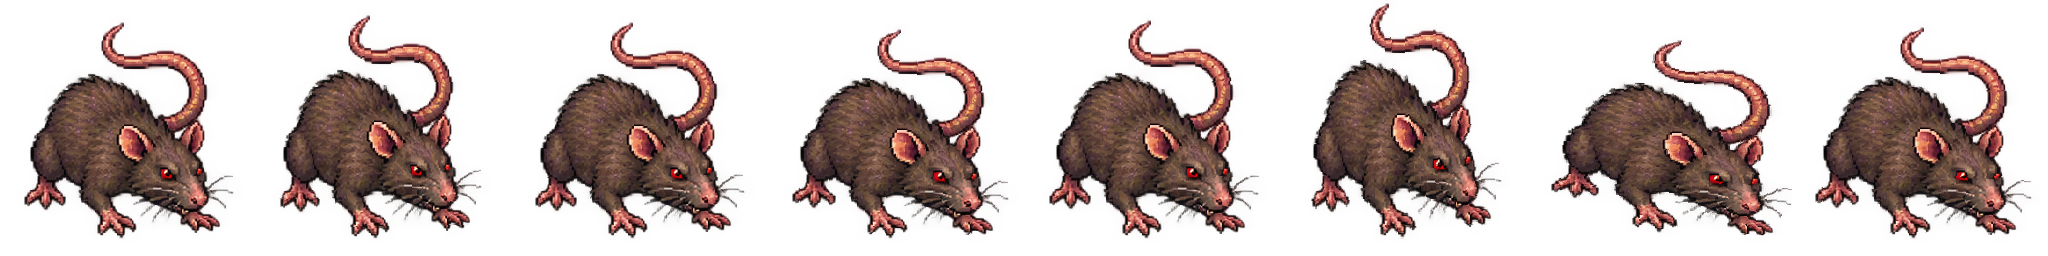
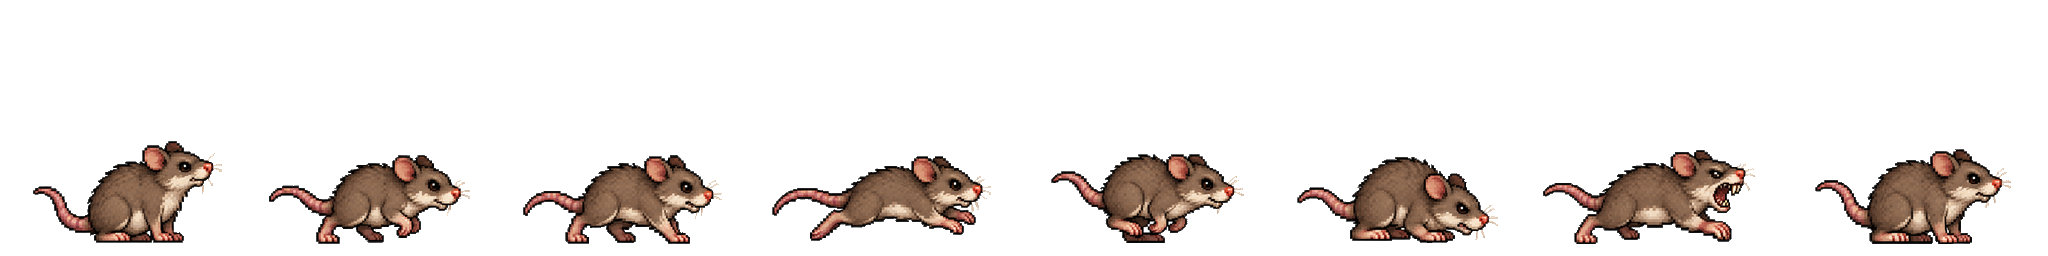
.

diff --git a/public/game.js b/public/game.js
@@ -36,7 +36,7 @@
     { dx: -8, dy: -8, kind: 'forge' }, { dx: 5, dy: -8, kind: 'potion' },
     { dx: -8, dy: 5, kind: 'guild' }, { dx: 5, dy: 5, kind: 'travel' }
   ];
-  const townLamps = [[-3, -3], [4, -3], [-3, 4], [4, 4], [-1, -9], [2, -9], [-1, 9], [2, 9]];
+  const townLamps = [[-4, -3], [5, -3], [-4, 3], [5, 3], [-1, -9], [2, -9], [-1, 9], [2, 9]];
 
   // ======================================================== ABERTURA
   const show = (id, on) => $(id).style.display = on ? (id === 'game' || id === 'title' ? 'block' : 'flex') : 'none';
@@ -343,6 +343,16 @@
 
   // ======================================================== MAPA
   const tileAt = (x, y) => { x -= RX; return (x < 0 || y < 0 || x >= MW || y >= MH) ? T.WATER : tiles[y * MW + x]; };
+  // Chão desenhado: sob as lojas e a fonte vai calçamento (os prédios/fonte pintados cobrem por cima);
+  // antes aparecia o "bloco" de parede/água atrás das fachadas.
+  const groundAt = (x, y) => {
+    const t = tileAt(x, y), dx = x - CX, dy = y - CY;
+    if (Math.abs(dx) < 10 && Math.abs(dy) < 10) {
+      if (t === T.WATER && dx >= 0 && dx <= 1 && dy >= 0 && dy <= 1) return T.FLOOR;
+      if (t === T.WALL) return T.FLOOR;
+    }
+    return t;
+  };
   const inCave = (x, y) => REG.biome === 'green' && x > CX + 28 && y > CY + 28;
   // Carrega SÓ a região onde o jogador está (as outras não pesam no celular)
   function loadRegion(m) {
@@ -405,8 +415,8 @@
   // Resolução adaptativa: começa nítida; se o aparelho não aguenta ~50 fps, reduz um pouco a
   // resolução interna do mapa (a tela continua do mesmo tamanho). Em aparelho bom fica no máximo.
   const DPR_MAX = Math.min(window.devicePixelRatio || 1, 2);
-  const QLEVELS = [...new Set([DPR_MAX, DPR_MAX * 0.85, DPR_MAX * 0.7, 1.25, 1, 0.85].map(v => Math.round(v * 100) / 100).filter(v => v <= DPR_MAX))].sort((a, b) => b - a);
-  let qIdx = 0; try { const sv = +LS.get('piper_q'); if (sv > 0 && sv < QLEVELS.length) qIdx = sv; } catch (e) { }
+  const QLEVELS = [...new Set([DPR_MAX, DPR_MAX * 0.85, DPR_MAX * 0.7, 1.25, 1, ...(DPR_MAX >= 1.5 ? [] : [0.85])].map(v => Math.round(v * 100) / 100).filter(v => v <= DPR_MAX))].sort((a, b) => b - a);
+  let qIdx = 0; try { const sv = +LS.get('piper_q2'); if (sv > 0 && sv < QLEVELS.length) qIdx = sv; } catch (e) { }
   const perfMon = { n: 0, sum: 0, last: 0, winStart: 0, slowWin: 0, goodSince: 0, coolUntil: 0, failedUp: 0 };
   function perfFrame(now) {
     const dt = now - perfMon.last; perfMon.last = now;
@@ -420,7 +430,7 @@
     if (avg > 21 && qIdx < QLEVELS.length - 1) {          // abaixo de ~48 fps: menos pixels
       perfMon.slowWin++;
       if (perfMon.slowWin >= 2 || avg > 45) {              // muito lento: desce 2 degraus de uma vez
-        qIdx = Math.min(QLEVELS.length - 1, qIdx + (avg > 45 ? 2 : 1)); perfMon.slowWin = 0; perfMon.coolUntil = now + 1500; perfMon.goodSince = 0; LS.set('piper_q', qIdx); resize();
+        qIdx = Math.min(QLEVELS.length - 1, qIdx + (avg > 45 ? 2 : 1)); perfMon.slowWin = 0; perfMon.coolUntil = now + 1500; perfMon.goodSince = 0; LS.set('piper_q2', qIdx); resize();
       }
     } else {
       perfMon.slowWin = 0;
@@ -428,7 +438,7 @@
       else perfMon.goodSince = 0;
       // fluido por 25 s: tenta voltar um degrau de nitidez (se piorar, desce de novo e espera mais)
       if (qIdx > 0 && perfMon.goodSince && now - perfMon.goodSince > 25000 && now > perfMon.failedUp) {
-        qIdx--; perfMon.goodSince = 0; perfMon.coolUntil = now + 2500; perfMon.failedUp = now + 120000; LS.set('piper_q', qIdx); resize();
+        qIdx--; perfMon.goodSince = 0; perfMon.coolUntil = now + 2500; perfMon.failedUp = now + 120000; LS.set('piper_q2', qIdx); resize();
       }
     }
   }
@@ -472,7 +482,7 @@
     ctx.setTransform(K, 0, 0, K, 0, 0); ctx.imageSmoothingEnabled = false;
     const x0 = Math.floor(camX) - 1, y0 = Math.floor(camY) - 1, x1 = x0 + Math.ceil(LWW / TS) + 2, y1 = y0 + Math.ceil(LHH / TS) + 3;
     const wf = Math.floor(now / 350) % 7;
-    SPR.drawGround(ctx, x0, y0, x1, y1, ox, oy, now, tileAt, K);
+    SPR.drawGround(ctx, x0, y0, x1, y1, ox, oy, now, groundAt, K);
     for (const pt of D.portalsOf(REG.id)) { const wx = RX + pt.x; if (wx >= x0 - 2 && wx <= x1 + 2 && pt.y >= y0 - 3 && pt.y <= y1 + 3) drawPortal(pt, wx, now, ox, oy); }
     for (const f of fxs) {
       const age = now - f.t0, sx = f.x * TS + ox, sy = f.y * TS + oy;
@@ -496,9 +506,6 @@
       }
       if (y === CY + 1) {
         const fountain = SPR.townFountain(), fh = Math.round(fountain.height * 64 / fountain.width);
-        // A fonte nova tem cantos vazados: piso de pedra por baixo, no lugar da água dos 2x2 tiles.
-        if (fountain.naturalWidth) for (let dy = 0; dy < 2; dy++) for (let dx = 0; dx < 2; dx++)
-          ctx.drawImage(SPR.tile(T.FLOOR, (dx + dy * 3) % 4, 0), (CX + dx) * TS + ox, (CY + dy) * TS + oy, TS, TS);
         ctx.drawImage(fountain, CX * TS + ox, CY * TS + oy + 64 - fh, 64, fh);
       }
       // Lampiões em volta da praça (só decoração).
@@ -538,7 +545,7 @@
     ctx.textAlign = 'center';
     for (const e of ents.values()) {
       const p = rpos(e, now), sx = p.x * TS + ox + 16, isC = e.kind === 'p' || (typeof e.look === 'string' && e.look[0] === 'c');
-      const top = isC ? (mobileMode ? 34 : 24) : (e.look === 'dragon' || e.look === 'troll' || e.look === 'bear' ? (mobileMode ? 22 : 14) : (mobileMode ? 12 : 4));
+      const top = isC ? (mobileMode ? 22 : 15) : (e.look === 'dragon' || e.look === 'troll' || e.look === 'bear' ? (mobileMode ? 22 : 14) : (mobileMode ? 12 : 4));
       const sy = p.y * TS + oy - top;
       const pct = e.hp / 100, hc = pct > 0.6 ? '#3fd35a' : pct > 0.3 ? '#f2c14e' : '#ef4444';
       const nc = e.kind === 'n' ? '#9fd8ff' : e.kind === 'p' ? ((e.flags & 1) ? '#ff6b6b' : e.id !== myId && isFriend(e.name) ? '#5cf08a' : '#ffffff') : hc;
@@ -642,6 +649,7 @@
       ctx.save(); ctx.translate(dir[0] * attackStep, dir[1] * attackStep * .45);
       ctx.imageSmoothingEnabled = false;
       if (hurt) ctx.globalAlpha = 0.6;
+      ctx.imageSmoothingEnabled = true; ctx.imageSmoothingQuality = 'high';
       // As folhas novas têm os pés na linha 185/192. A linha do solo é 31,
       // igual aos monstros: antes em 29, o herói parecia levitar.
       const squash = 0;   // sem esticar/achatar: o personagem tem sempre o mesmo tamanho
@@ -651,7 +659,7 @@
       ctx.restore(); ctx.imageSmoothingEnabled = false;
       return;
     }
-    const enemySprite = e.kind === 'm' && ENEMIES.sprite(e.look, frame, e.dir === 1);
+    const enemySprite = e.kind === 'm' && ENEMIES.sprite(e.look, frame, !!e.faceLeft);
     const img = enemySprite || SPR.entity(e.kind, e.look, e.dir, frame, e.faceLeft);
     const elite = e.look === 'bear' || e.look === 'troll' || e.look === 'dragon';
     const scale = mobileMode ? 1.15 : 1;
@@ -664,7 +672,7 @@
     ctx.fillStyle = 'rgba(0,0,0,.28)'; ctx.beginPath(); ctx.ellipse(sx + 16, sy + 29, iw > 40 ? 16 : 10, 4, 0, 0, 7); ctx.fill();
     ctx.save(); ctx.translate(dir[0] * attackStep, dir[1] * attackStep * .45);
     if ((e.hitUntil || 0) > now) ctx.globalAlpha = 0.6;
-    ctx.imageSmoothingEnabled = false;
+    ctx.imageSmoothingEnabled = !!enemySprite; ctx.imageSmoothingQuality = 'high';
     ctx.drawImage(img, Math.round((sx + (TS - iw) / 2) * K) / K, Math.round((sy + TS - ih - 1 + idleBob) * K) / K, iw, ih);
     ctx.restore();
     ctx.imageSmoothingEnabled = false;

diff --git a/public/sprites.js b/public/sprites.js
@@ -66,14 +66,32 @@ const SPR = (function () {
         case T.SAND: speckle(g, '#d8c07c', ['#c8ae68', '#e6d297', '#cdb571', '#f0dca1'], 42, s); for (let i = 0; i < 3; i++) { const x = hash(i, s, 3) * 15 | 0, y = hash(i, s, 4) * 15 | 0; r(x, y, 3, .5, '#b89b5d'); } break;
         case T.PATH: speckle(g, '#9b7b4f', ['#8a6b43', '#ac8c5d', '#927349', '#b09264'], 42, s); for (let i = 0; i < 5; i++) { const x = hash(i, s, 3) * 15 | 0, y = hash(i, s, 4) * 15 | 0; r(x, y, 1, 1, '#6f665b'); if (i % 2) r(x + 1, y + 1, 1, .5, '#c5a87a'); } break;
         case T.FLOOR:
-          g.fillStyle = '#8f877a'; g.fillRect(0, 0, 32, 32);
-          r(0, 0, 16, 0.5, '#6e675c'); r(0, 8, 16, 0.5, '#6e675c'); r(v % 2 ? 4 : 10, 0, 0.5, 8, '#6e675c'); r(v % 2 ? 12 : 6, 8, 0.5, 8, '#6e675c');
-          for (let i = 0; i < 10; i++) r(hash(i, s, 3) * 16 | 0, hash(i, s, 4) * 16 | 0, 1, 1, i % 2 ? '#a39b8e' : '#837b6f');
+          // Praça da cidade: blocos de pedra irregulares, com juntas escuras
+          // e desgaste leve. As bordas continuam alinhadas ao tile.
+          g.fillStyle = '#635d56'; g.fillRect(0, 0, 32, 32);
+          for (let row = 0; row < 4; row++) {
+            const off = ((row + v) & 1) ? -2 : 0;
+            for (let col = -1; col < 4; col++) {
+              const id = row * 7 + col + s, x = off + col * 5, y = row * 4;
+              const tone = ['#9c958a', '#928a7f', '#a69f94', '#877f74'][(hash(id, s, 33) * 4) | 0];
+              r(x + .35, y + .35, 4.3, 3.25, tone);
+              r(x + .8, y + .7, 2.2, .45, shade(tone, 1.12));
+              if (hash(id, s, 34) > .82) r(x + 2, y + 2, 1.1, .45, '#6e675f');
+            }
+          }
+          r(0, 0, 16, .45, '#c1b9ab'); r(0, 15.55, 16, .45, '#514c46');
           break;
         case T.WALL:
-          g.fillStyle = '#5a544d'; g.fillRect(0, 0, 32, 32);
-          for (let row = 0; row < 4; row++) for (let col = -1; col < 3; col++) { const x = col * 6 + (row % 2 ? 3 : 0); r(x + 0.5, row * 4 + 0.5, 5, 3, row === 0 ? '#9a938a' : '#7b746b'); r(x + 0.5, row * 4 + 0.5, 5, 0.5, '#a8a197'); }
-          r(0, 14, 16, 2, '#3c3833');
+          // Muralha com coroamento claro, pedras maiores e base sombreada.
+          g.fillStyle = '#3f3b37'; g.fillRect(0, 0, 32, 32);
+          r(0, 0, 16, 1.3, '#b5ada1'); r(0, 1.3, 16, .7, '#716a63');
+          for (let row = 0; row < 4; row++) for (let col = -1; col < 3; col++) {
+            const id = row * 9 + col + s, x = col * 6 + ((row + v) % 2 ? 3 : 0), y = row * 3.55 + 1.4;
+            const tone = ['#827b73', '#756e67', '#908980', '#69635e'][(hash(id, s, 51) * 4) | 0];
+            r(x + .35, y + .45, 5.1, 2.75, tone); r(x + .7, y + .75, 3.3, .4, shade(tone, 1.2));
+            if (hash(id, s, 52) > .86) r(x + 2.2, y + 1.6, .5, 1.1, '#514c47');
+          }
+          r(0, 13.8, 16, 2.2, '#34312e'); r(0, 13.8, 16, .45, '#a0978b');
           break;
         case T.CAVE: speckle(g, '#3f3228', ['#33281f', '#4b3c30', '#382c23'], 34, s); break;
         case T.CAVEWALL:
@@ -359,9 +377,41 @@ const SPR = (function () {
   // leitura clássica de RPG mobile sem transformar o mundo em baixa resolução.
   const GFILES = ['water-seamless.jpg', 'grass-pixel.png'];
   GFILES.forEach(n => { const im = new Image(); im.onload = () => { GIMG[n] = im; chunks.clear(); }; im.src = 'assets/world/' + n; });
+  // Texturas contínuas opcionais (calçamento da praça, terra e areia): ancoradas no mundo, sem emenda entre tiles.
+  const GOPT = { [T.FLOOR]: 'plaza.jpg', [T.PATH]: 'dirt.jpg', [T.SAND]: 'sand.jpg' };
+  Object.values(GOPT).forEach(n => { const im = new Image(); im.onload = () => { GIMG[n] = im; chunks.clear(); }; im.src = 'assets/world/ground/' + n + '?v=gpt1'; });
   const gReady = () => GFILES.every(n => GIMG[n]) && typeof DOMMatrix !== 'undefined';
   function pats(c) {
-    return { water: c.createPattern(GIMG['water-seamless.jpg'], 'repeat'), grass: c.createPattern(GIMG['grass-pixel.png'], 'repeat') };
+    const P = { water: c.createPattern(GIMG['water-seamless.jpg'], 'repeat'), grass: c.createPattern(GIMG['grass-pixel.png'], 'repeat') };
+    for (const t in GOPT) if (GIMG[GOPT[t]]) P[t] = c.createPattern(GIMG[GOPT[t]], 'repeat');
+    return P;
+  }
+  // escala de cada textura de 512 px (0,5 = repete a cada 8 tiles; o calçamento usa pedras maiores)
+  const GSCALE = { [T.FLOOR]: 0.2, [T.PATH]: 0.5, [T.SAND]: 0.5 };
+  const grassy = q => q === T.GRASS || q === T.FLOWER || q === T.TREE;
+  // Borda orgânica de grama por cima de terra/areia: tira o aspecto de "quadradinho" entre terrenos.
+  function grassFringe(c, x, y, dx, dy, at, P, ox, oy) {
+    const n = grassy(at(x, y - 1)), s = grassy(at(x, y + 1)), w = grassy(at(x - 1, y)), e = grassy(at(x + 1, y));
+    const nw = grassy(at(x - 1, y - 1)), ne = grassy(at(x + 1, y - 1)), sw = grassy(at(x - 1, y + 1)), se = grassy(at(x + 1, y + 1));
+    if (!(n || s || w || e || nw || ne || sw || se)) return;
+    const wx = x * 32, wy = y * 32, d = u => 5.5 + 2.6 * Math.sin(u * 0.17) + 1.6 * Math.sin(u * 0.43 + 1.3) + 0.8 * Math.sin(u * 1.1 + 0.4);
+    const path = new Path2D();
+    const edge = (side) => {
+      path.moveTo(side === 3 ? dx + 32 : dx, side === 1 ? dy + 32 : dy);
+      for (let i = 0; i <= 32; i += 1) {
+        const k = d((side < 2 ? wx : wy) + i);
+        if (side === 0) path.lineTo(dx + i, dy + k); else if (side === 1) path.lineTo(dx + i, dy + 32 - k);
+        else if (side === 2) path.lineTo(dx + k, dy + i); else path.lineTo(dx + 32 - k, dy + i);
+      }
+      if (side === 0) path.lineTo(dx + 32, dy); else if (side === 1) path.lineTo(dx + 32, dy + 32);
+      else if (side === 2) path.lineTo(dx, dy + 32); else path.lineTo(dx + 32, dy + 32);
+      path.closePath();
+    };
+    if (n) edge(0); if (s) edge(1); if (w) edge(2); if (e) edge(3);
+    const corner = (cx, cy) => { path.moveTo(cx, cy); path.arc(cx, cy, 6.5 + 2 * Math.sin(wx * 0.3 + wy * 0.7), 0, Math.PI * 2); };
+    if (nw && !n && !w) corner(dx, dy); if (ne && !n && !e) corner(dx + 32, dy);
+    if (sw && !s && !w) corner(dx, dy + 32); if (se && !s && !e) corner(dx + 32, dy + 32);
+    c.save(); c.clip(path); fillPat(c, P.grass, ox, oy, 0.25, dx, dy, 32, 32); c.restore();
   }
   function fillPat(c, pat, tx, ty, sc, dx, dy, w, h) { pat.setTransform(new DOMMatrix([sc, 0, 0, sc, tx, ty])); c.fillStyle = pat; c.fillRect(dx, dy, w, h); }
   const wob = u => 3.4 + 1.4 * Math.sin(u * 0.21) + 0.8 * Math.sin(u * 0.53 + 1.7);
@@ -464,7 +514,8 @@ const SPR = (function () {
       else if (t === T.BRIDGE) bridgeTile(c, x, y, dx, dy, at);
       else if (t === T.TREE && treeBase(x, y, at) !== T.GRASS) c.drawImage(tile(treeBase(x, y, at), hash(x, y, 9) * 4 | 0, 0), dx, dy, 32, 32);
       else if (t === T.GRASS || t === T.TREE || t === T.FLOWER) grassTile(c, t, x, y, dx, dy, ox, oy, P);
-      else c.drawImage(tile(t, hash(x, y, 9) * 4 | 0, 0), dx, dy, 32, 32);
+      else if (P[t]) { fillPat(c, P[t], ox, oy, GSCALE[t], dx, dy, 32, 32); if (t !== T.FLOOR) grassFringe(c, x, y, dx, dy, at, P, ox, oy); }
+      else { c.drawImage(tile(t, hash(x, y, 9) * 4 | 0, 0), dx, dy, 32, 32); if (t === T.PATH || t === T.SAND) grassFringe(c, x, y, dx, dy, at, P, ox, oy); }
     }
     cv.wet = wet;
     chunks.set(key, cv);

diff --git a/public/enemy-assets.js b/public/enemy-assets.js
@@ -3,7 +3,9 @@
 const ENEMIES = (() => {
   const names = ['rabbit', 'rat', 'snake', 'wolf', 'goblin', 'bear', 'orc', 'shaman', 'troll', 'scorpion', 'mummy', 'skeleton', 'spider', 'dragon'];
   const images = {};
-  const ASSET_REV = 'motion-pixel-5';
+  const ASSET_REV = 'gpt-anim-1';
+  // Folhas novas (ChatGPT): quadros já alinhados na produção, incluindo o pulo no ar — desenho direto.
+  const READY = new Set(['rabbit', 'rat', 'snake', 'wolf']);
   function load(onProgress) {
     let done = 0;
     return Promise.all(names.map(name => new Promise(resolve => {
@@ -38,7 +40,7 @@ const ENEMIES = (() => {
     if (faceLeft) { g.translate(F, 0); g.scale(-1, 1); }
     const ref = refBox(name, sheet, F), raw = document.createElement('canvas'); raw.width = F; raw.height = F;
     raw.getContext('2d').drawImage(sheet, step * F, 0, F, F, 0, 0, F, F);
-    const b = ref && box(raw);
+    const b = !READY.has(name) && ref && box(raw);
     if (b) {   // mesma altura (±6%) e pés na mesma linha do quadro parado
       const s = Math.max(0.94, Math.min(1.06, ref.h / b.h));
       g.drawImage(raw, 0, 0, F, F, ref.cx - s * b.cx, ref.y1 + 1 - s * (b.y1 + 1), F * s, F * s);

diff --git a/public/index.html b/public/index.html
@@ -284,6 +284,12 @@ html:not(.touch) #acts #potHp{order:6}html:not(.touch) #acts #potMp{order:7}
 html:not(.touch) #cast .lbl{bottom:4px;font-size:8px;letter-spacing:.5px}
 html:not(.touch) #feed{bottom:98px}
 html.touch #acts kbd{display:none}
+/* Celular: menu numa faixa no topo, ao lado do minimapa (antes ficava no meio da tela, por cima do mapa). */
+html.touch #hudTR{flex-direction:row-reverse;align-items:flex-start;gap:8px}
+html.touch #hudTR #gold{position:absolute;right:0;top:calc(100% + 4px);padding:3px 9px 3px 5px;font-size:12px}
+html.touch #hudTR .menuBtns{gap:5px;padding:4px 6px;margin-top:2px}
+html.touch #hudTR .menuBtns .ib{width:32px;height:32px}
+html.touch #hudTR .menuBtns .ib svg{width:17px;height:17px}
 
 /* ---- Botão INSTALAR JOGO (PWA) ---- */
 #installBtn{position:absolute;top:calc(10px + env(safe-area-inset-top));right:calc(12px + env(safe-area-inset-right));z-index:60;display:none;align-items:center;gap:8px;padding:8px 16px 8px 12px;font-size:14px;animation:instPulse 2.2s ease-in-out infinite}
